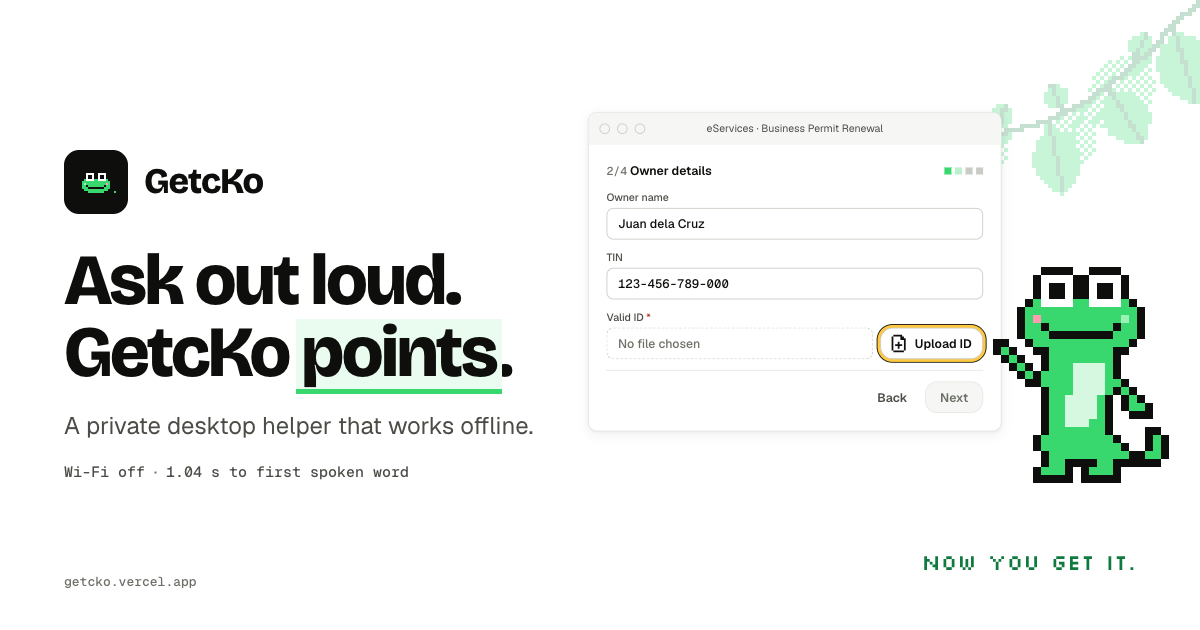
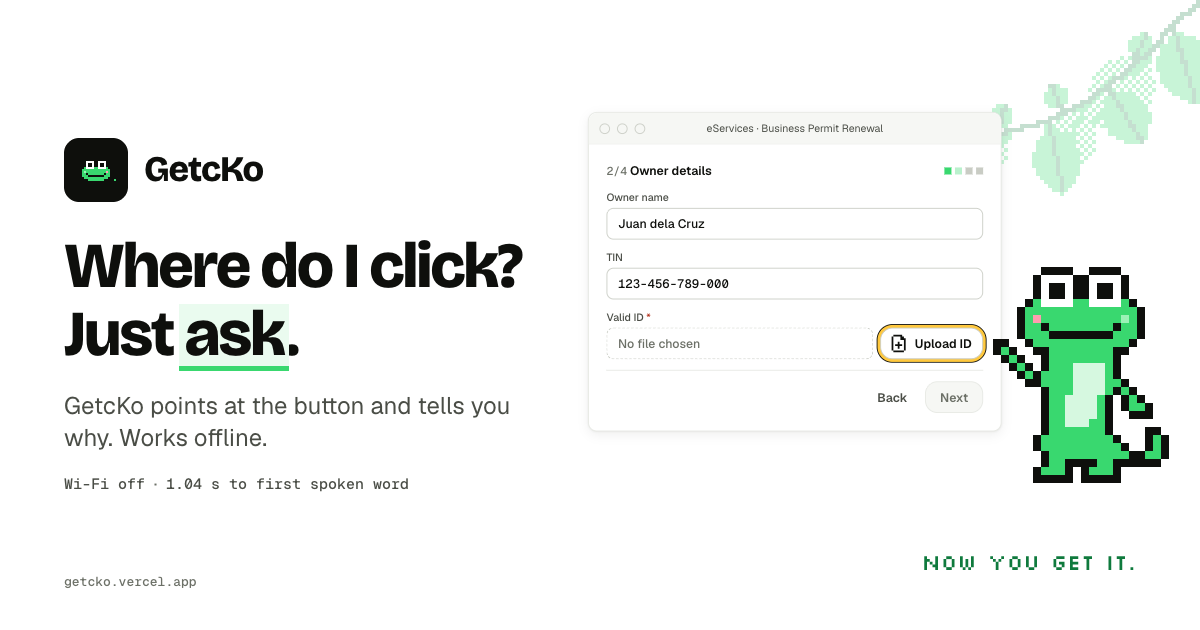
feat(site): hero headline "Where do I click? Just ask."
- Headline is the user's own question on its own line, then "Just ask."
  with "ask" marked; the support line carries the pointing and offline:
  "GetcKo points at the button and tells you why. Works offline."
- Page title, og:title, twitter:title and og:image:alt match; og.png
  re-captured (title 64 px so the question fits one line)

Changed region(s): [[0.0308, 0.3619, 0.4625, 0.7841], [0.0308, 0.2111, 0.2158, 0.3619]]

diff --git a/site/index.html b/site/index.html
@@ -4,23 +4,23 @@
     <meta charset="UTF-8" />
     <meta name="viewport" content="width=device-width, initial-scale=1.0" />
     <link rel="icon" type="image/svg+xml" href="/brand/favicon.svg" />
-    <title>GetcKo · Ask out loud. GetcKo points.</title>
+    <title>GetcKo · Where do I click? Just ask.</title>
     <meta name="description" content="GetcKo is a private desktop helper that works offline. Ask out loud: GetcKo points at the right thing on your screen and cites your own documents. Nothing leaves your computer." />
     <link rel="canonical" href="https://getcko.vercel.app/" />
     <!-- Open Graph / social card: public/og.png (1200 × 630), rendered from og.html with the real brand pieces. -->
     <meta property="og:type" content="website" />
     <meta property="og:site_name" content="GetcKo" />
     <meta property="og:url" content="https://getcko.vercel.app/" />
-    <meta property="og:title" content="GetcKo · Ask out loud. GetcKo points." />
+    <meta property="og:title" content="GetcKo · Where do I click? Just ask." />
     <meta property="og:description" content="A private desktop helper that works offline. GetcKo points at the right thing on your screen and cites your own documents. Nothing leaves your computer." />
     <meta property="og:image" content="https://getcko.vercel.app/og.png" />
     <meta property="og:image:type" content="image/png" />
     <meta property="og:image:width" content="1200" />
     <meta property="og:image:height" content="630" />
-    <meta property="og:image:alt" content="GetcKo, a green pixel gecko, points at the Upload ID button on a business permit form. Ask out loud. GetcKo points." />
+    <meta property="og:image:alt" content="GetcKo, a green pixel gecko, points at the Upload ID button on a business permit form. Where do I click? Just ask." />
     <meta property="og:locale" content="en_US" />
     <meta name="twitter:card" content="summary_large_image" />
-    <meta name="twitter:title" content="GetcKo · Ask out loud. GetcKo points." />
+    <meta name="twitter:title" content="GetcKo · Where do I click? Just ask." />
     <meta name="twitter:description" content="A private desktop helper that works offline. Nothing leaves your computer." />
     <meta name="twitter:image" content="https://getcko.vercel.app/og.png" />
     <meta name="twitter:image:alt" content="GetcKo, a green pixel gecko, points at the Upload ID button on a business permit form." />

diff --git a/site/src/brand/hero/GetCkoHero.tsx b/site/src/brand/hero/GetCkoHero.tsx
@@ -1,4 +1,4 @@
-// GetCko first-glance hero: "Ask out loud. GetCko points." beside a mock e-service form (site edit:
+// GetCko first-glance hero: "Where do I click? Just ask." beside a mock e-service form (site edit:
 // was a grade sheet) where a voxel GetCko (three.js, the real sprite map extruded) hops to the Upload ID button, rings it, answers in
 // English and cites the guide, offline. Choreography: ./timeline.ts (shared with the demo video).
 // Spec: docs/brand/hero.md.
@@ -279,6 +279,7 @@ export function GetCkoHero({ theme = "auto", autoplay = true, at, className, act
         {/* Words: headline, support line, the four beats, the shortcut. */}
         <div data-hero="copy" className="flex flex-col gap-4 xl:col-span-5 xl:gap-6">
           <h1 id={titleId} className="font-display text-h1 text-balance text-text lg:text-display">
+            <span className="block">{HERO_COPY.headline.lead}</span>{" "}
             {HERO_COPY.headline.before} <Mark>{HERO_COPY.headline.mark}</Mark>
             {HERO_COPY.headline.after}
           </h1>

diff --git a/site/src/brand/hero/copy.ts b/site/src/brand/hero/copy.ts
@@ -10,10 +10,13 @@ export type HeroBeat = "ask" | "point" | "source" | "offline";
 export const HERO_BEATS: readonly HeroBeat[] = ["ask", "point", "source", "offline"];
 
 export const HERO_COPY = {
-  /** PROPOSED T.hero.headline. 5 words. `mark` is the highlighted word. */
-  headline: { before: `Ask out loud. ${T.product.name}`, mark: "points", after: "." },
-  /** Support line, 7 words: T.product.descriptor. */
-  support: T.product.descriptor,
+  /**
+   * PROPOSED T.hero.headline. 6 words, the user's own question. `lead` is its own line (the question),
+   * then `before` + highlighted `mark` + `after`.
+   */
+  headline: { lead: "Where do I click?", before: "Just", mark: "ask", after: "." },
+  /** PROPOSED T.hero.support. Says what the headline leaves to the animation: the pointing, the why, offline. */
+  support: `${T.product.name} points at the button and tells you why. Works offline.`,
   /** One keyword per beat. Ask and Offline are lexicon keys; Point and Source are PROPOSED keys. */
   beats: {
     ask: T.actions.ask,

diff --git a/site/src/og/og.css b/site/src/og/og.css
@@ -3,7 +3,7 @@ html, body { margin: 0; width: 1200px; height: 630px; overflow: hidden; }
 
 .og { position: relative; width: 1200px; height: 630px; display: grid; grid-template-columns: 500px 1fr; align-items: center; column-gap: 24px; padding: 0 56px 0 64px; box-sizing: border-box; }
 .og-copy { display: flex; flex-direction: column; gap: 22px; }
-.og-title { margin: 8px 0 0; font-size: 72px; line-height: 72px; font-weight: 800; letter-spacing: -0.035em; }
+.og-title { margin: 8px 0 0; font-size: 64px; line-height: 68px; font-weight: 800; letter-spacing: -0.035em; }
 /* The kit hero's keyword mark: gecko-wash block, square corners, a 4 px gecko foot. */
 .og-mark { position: relative; isolation: isolate; }
 .og-mark::before { content: ""; position: absolute; inset: 0.14em -0.08em 0.02em; z-index: -1; background: var(--gc-accent-wash); }

diff --git a/site/src/og/OgCard.tsx b/site/src/og/OgCard.tsx
@@ -39,6 +39,7 @@ export function OgCard() {
       <div className="og-copy">
         <Wordmark size="lg" />
         <h1 className="og-title font-display text-text">
+          <span className="block">{HERO_COPY.headline.lead}</span>{" "}
           {HERO_COPY.headline.before}{" "}
           <span className="og-mark">{HERO_COPY.headline.mark}</span>
           {HERO_COPY.headline.after}

diff --git a/site/DESIGN.md b/site/DESIGN.md
@@ -421,4 +421,4 @@ Built only from the kit: `Surface`, `GetCkoHero`, `AgentCard`, `KnowledgeBaseRow
 
 **Seams (no hard section edges):** every light section uses the `paper` ground, and its texture is painted on a `::before` masked by a 4×4 Bayer dither (`public/site/seam-*.svg`, 4 px cells, 96 px ramp), so the texture dissolves pixel by pixel at its top and bottom: the brand's dither fade, never a gradient. `seam-top` / `seam-bottom` keep the canopy's top edge and the footer's bottom edge crisp. The ink island masks its whole ground, so it dithers out into the page.
 
-**Site edits to vendored kit code:** `GetCkoHero` gains an `actions` prop (the CTA row) and `data-hero="copy" | "window"` hooks for the intro, and its grade sheet is replaced by `EServiceForm`: an LGU business permit renewal at step 2 of 4, with name and TIN filled, no valid ID, and Next disabled. The question is "Why can't I click Next?", GetcKo points at Upload ID, and the source is "Permit guide · p. 2" (sample data in `hero/copy.ts`). `lexicon.ts` is English only (no `AgentLanguage`, `languages`, `tl` lines or `linesFor`; `say` is the English lines), `VoicePicker` drops the language notice and `LanguagePicker`, `AgentCard` drops the language tag, and `MEASURED.firstSpokenWord` is filled from `docs/MODELS.md`.
+**Site edits to vendored kit code:** `GetCkoHero` gains an `actions` prop (the CTA row) and `data-hero="copy" | "window"` hooks for the intro, and its grade sheet is replaced by `EServiceForm`: an LGU business permit renewal at step 2 of 4, with name and TIN filled, no valid ID, and Next disabled. The question is "Why can't I click Next?", GetcKo points at Upload ID, and the source is "Permit guide · p. 2" (sample data in `hero/copy.ts`). The headline is the user's question, "Where do I click?" on its own line, then "Just ask." with "ask" marked (`HERO_COPY.headline.lead` / `before` / `mark` / `after`), and the support line says what it leaves to the animation: "GetcKo points at the button and tells you why. Works offline." The page title, Open Graph titles and `og.png` use the same headline. `lexicon.ts` is English only (no `AgentLanguage`, `languages`, `tl` lines or `linesFor`; `say` is the English lines), `VoicePicker` drops the language notice and `LanguagePicker`, `AgentCard` drops the language tag, and `MEASURED.firstSpokenWord` is filled from `docs/MODELS.md`.

diff --git a/site/.impeccable/surfaces/site-src-app-tsx.md b/site/.impeccable/surfaces/site-src-app-tsx.md
@@ -19,7 +19,7 @@ OWN-WORLD: The brand kit. Textured sections from the gecko's world (footprints, 
 
 STORY: The logo is born from pixels and walks into the nav. The hero shows the whole loop (ask, point, source, offline). Then: how it points, your documents, voice, templates, the brand keywords, the one dark offline island, and "Now you get it." English only: no Taglish, Filipino, Pinoy or "this Mac" copy.
 
-FIRST VIEWPORT: The kit's GetCkoHero. On the left, "Ask out loud. GetcKo points." with the CTA, the beats, the shortcut and "Nothing leaves your computer." On the right, an LGU e-service form (business permit renewal, step 2 of 4, Next disabled until a valid ID is added), the voxel GetcKo hopping to Upload ID, the answer card and the source.
+FIRST VIEWPORT: The kit's GetCkoHero. On the left, "Where do I click? Just ask." with "GetcKo points at the button and tells you why. Works offline.", the CTA and download link, the beats, the shortcut and "Nothing leaves your computer." On the right, an LGU e-service form (business permit renewal, step 2 of 4, Next disabled until a valid ID is added), the voxel GetcKo hopping to Upload ID, the answer card and the source.
 
 FORM: A GSAP logo intro hands off to the kit hero timeline. A canvas GetcKo re-forms per section from MOMENT_POSE, with a halo via haloIn.
 
@@ -27,5 +27,4 @@ SIGNATURE: The brand keywords. GetcKo walks down the list and points at each wor
 
 ## Unresolved
 
-- `DEMO_VIDEO_URL` is empty.
-- `REPO_PUBLIC` is false.
+- `REPO_PUBLIC` is false (the repo has no license yet).
